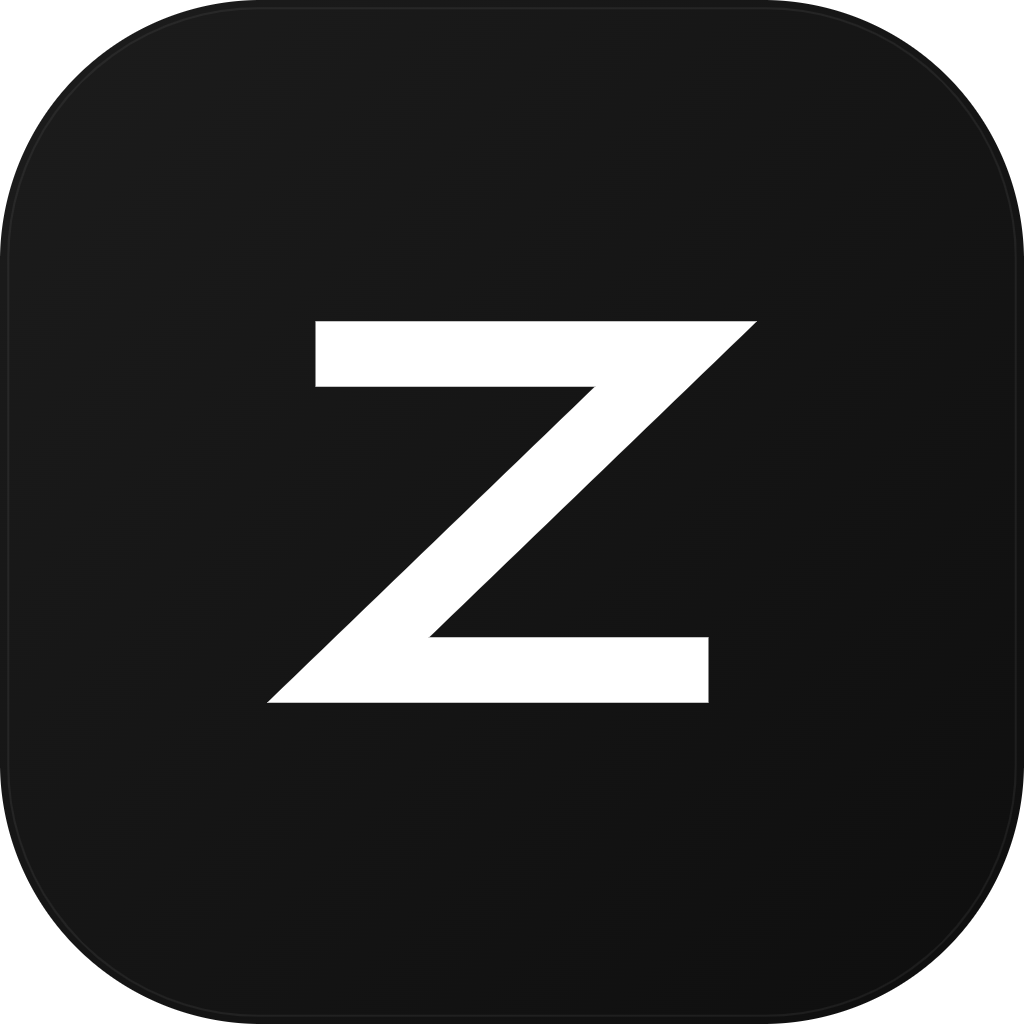
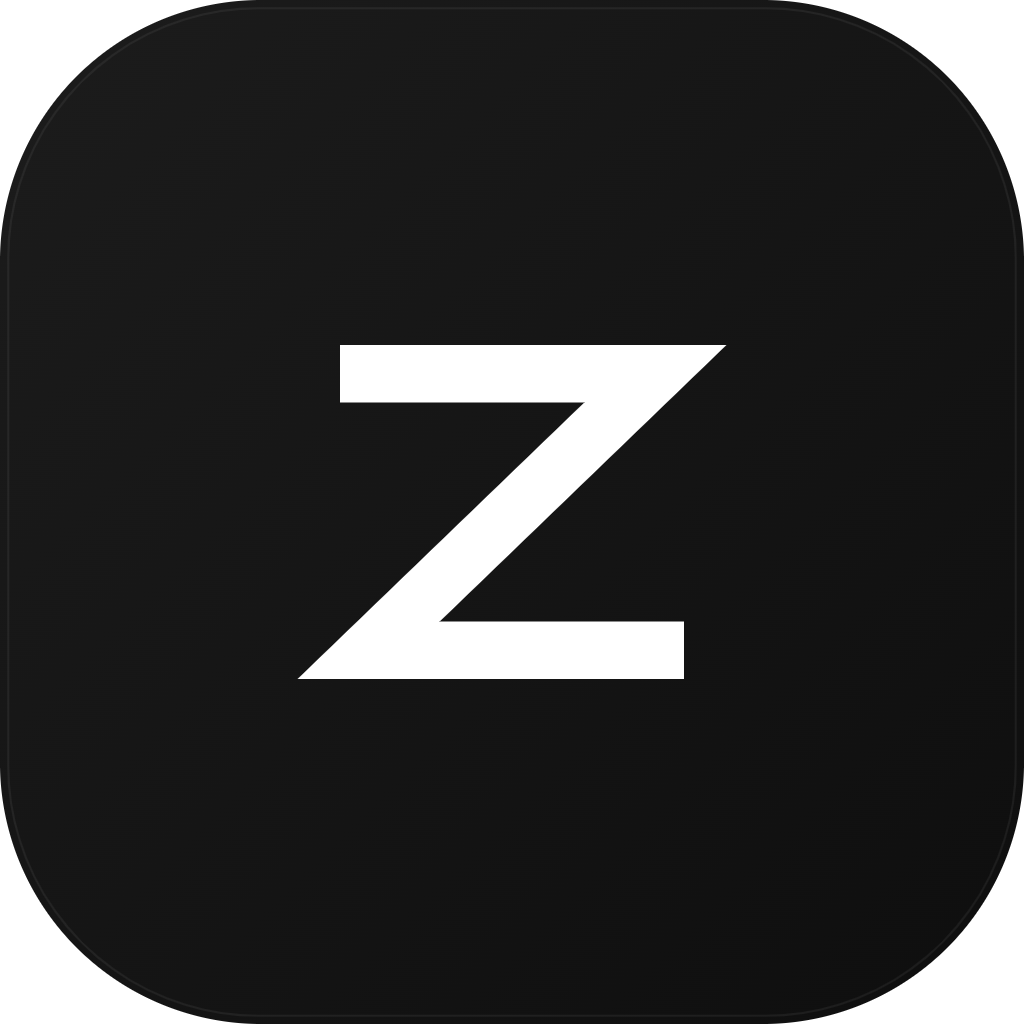
Save Android downloads directly and shrink the launcher mark

diff --git a/src/lib/utils.ts b/src/lib/utils.ts
@@ -1,4 +1,16 @@
-import { Capacitor } from '@capacitor/core';
+import { Capacitor, registerPlugin } from '@capacitor/core';
+
+interface NativeSaveOptions {
+  base64: string;
+  filename: string;
+  mime: string;
+}
+
+interface NativeSaverPlugin {
+  saveFile(options: NativeSaveOptions): Promise<{ uri: string; path: string }>;
+}
+
+const NativeSaver = registerPlugin<NativeSaverPlugin>('ImagZal');
 
 export function cn(...parts: Array<string | false | null | undefined>): string {
   return parts.filter(Boolean).join(' ');
@@ -53,23 +65,12 @@ function blobToBase64(blob: Blob): Promise<string> {
   });
 }
 
-/** On Android, write to the cache and open the system share/save sheet. */
-async function saveNativeFile(blob: Blob, filename: string): Promise<void> {
-  const [{ Filesystem, Directory }, { Share }] = await Promise.all([
-    import('@capacitor/filesystem'),
-    import('@capacitor/share'),
-  ]);
-  const safeName = filename.replace(/[\\/:*?"<>|]/g, '-');
-  const written = await Filesystem.writeFile({
-    path: safeName,
-    data: await blobToBase64(blob),
-    directory: Directory.Cache,
-    recursive: true,
-  });
-  await Share.share({
-    title: safeName,
-    files: [written.uri],
-    dialogTitle: 'Save or share',
+/** On Android, save directly into Downloads/ImagZal and show a native toast. */
+async function saveNativeFile(blob: Blob, filename: string): Promise<void> {  const safeName = filename.replace(/[\\/:*?"<>|]/g, '-');
+  await NativeSaver.saveFile({
+    base64: await blobToBase64(blob),
+    filename: safeName,
+    mime: blob.type || 'application/octet-stream',
   });
 }
 

diff --git a/android/app/src/main/java/com/bipinrizal/imagzal/ImagZalPlugin.java b/android/app/src/main/java/com/bipinrizal/imagzal/ImagZalPlugin.java
@@ -1,0 +1,128 @@
+package com.bipinrizal.imagzal;
+
+import android.Manifest;
+import android.content.ContentResolver;
+import android.content.ContentValues;
+import android.net.Uri;
+import android.os.Build;
+import android.os.Environment;
+import android.provider.MediaStore;
+import android.util.Base64;
+import android.widget.Toast;
+
+import com.getcapacitor.JSObject;
+import com.getcapacitor.PermissionState;
+import com.getcapacitor.Plugin;
+import com.getcapacitor.PluginCall;
+import com.getcapacitor.PluginMethod;
+import com.getcapacitor.annotation.CapacitorPlugin;
+import com.getcapacitor.annotation.Permission;
+import com.getcapacitor.annotation.PermissionCallback;
+
+import java.io.File;
+import java.io.FileOutputStream;
+import java.io.OutputStream;
+
+@CapacitorPlugin(
+    name = "ImagZal",
+    permissions = {
+        @Permission(
+            alias = "storage",
+            strings = { Manifest.permission.WRITE_EXTERNAL_STORAGE }
+        )
+    }
+)
+public class ImagZalPlugin extends Plugin {
+
+    @PluginMethod
+    public void saveFile(PluginCall call) {
+        if (Build.VERSION.SDK_INT < Build.VERSION_CODES.Q
+            && getPermissionState("storage") != PermissionState.GRANTED) {
+            requestPermissionForAlias("storage", call, "storagePermission");
+            return;
+        }
+
+        String data = call.getString("base64");
+        String filename = call.getString("filename");
+        String mime = call.getString("mime", "application/octet-stream");
+
+        if (data == null || filename == null) {
+            call.reject("Missing file data.");
+            return;
+        }
+
+        String safeName = filename.replaceAll("[\\\\/:*?\"<>|]", "-");
+        if (safeName.isEmpty()) safeName = "imagzal-file";
+        final String savedName = safeName;
+
+        try {
+            byte[] bytes = Base64.decode(data, Base64.DEFAULT);
+            Uri uri;
+
+            if (Build.VERSION.SDK_INT >= Build.VERSION_CODES.Q) {
+                ContentResolver resolver = getContext().getContentResolver();
+                ContentValues values = new ContentValues();
+                values.put(MediaStore.MediaColumns.DISPLAY_NAME, safeName);
+                values.put(MediaStore.MediaColumns.MIME_TYPE, mime);
+                values.put(
+                    MediaStore.MediaColumns.RELATIVE_PATH,
+                    Environment.DIRECTORY_DOWNLOADS + "/ImagZal"
+                );
+                values.put(MediaStore.MediaColumns.IS_PENDING, 1);
+
+                uri = resolver.insert(MediaStore.Downloads.EXTERNAL_CONTENT_URI, values);
+                if (uri == null) {
+                    throw new Exception("Could not create the file in Downloads.");
+                }
+
+                try (OutputStream stream = resolver.openOutputStream(uri)) {
+                    if (stream == null) {
+                        throw new Exception("Could not open the file for writing.");
+                    }
+                    stream.write(bytes);
+                }
+
+                values.clear();
+                values.put(MediaStore.MediaColumns.IS_PENDING, 0);
+                resolver.update(uri, values, null, null);
+            } else {
+                File folder = new File(
+                    Environment.getExternalStoragePublicDirectory(Environment.DIRECTORY_DOWNLOADS),
+                    "ImagZal"
+                );
+                if (!folder.exists() && !folder.mkdirs()) {
+                    throw new Exception("Could not create the Downloads/ImagZal folder.");
+                }
+                File file = new File(folder, safeName);
+                try (FileOutputStream stream = new FileOutputStream(file)) {
+                    stream.write(bytes);
+                }
+                uri = Uri.fromFile(file);
+            }
+
+            JSObject result = new JSObject();
+            result.put("uri", uri.toString());
+            result.put("path", "Downloads/ImagZal/" + safeName);
+            call.resolve(result);
+
+            getActivity().runOnUiThread(() ->
+                Toast.makeText(
+                    getContext(),
+                    "Saved to Downloads/ImagZal/" + savedName,
+                    Toast.LENGTH_LONG
+                ).show()
+            );
+        } catch (Exception error) {
+            call.reject("Could not save the file.", error);
+        }
+    }
+
+    @PermissionCallback
+    private void storagePermission(PluginCall call) {
+        if (getPermissionState("storage") == PermissionState.GRANTED) {
+            saveFile(call);
+        } else {
+            call.reject("Storage permission is required to save files.");
+        }
+    }
+}

diff --git a/android/app/src/main/java/com/bipinrizal/imagzal/MainActivity.java b/android/app/src/main/java/com/bipinrizal/imagzal/MainActivity.java
@@ -1,5 +1,13 @@
 package com.bipinrizal.imagzal;
 
+import android.os.Bundle;
+
 import com.getcapacitor.BridgeActivity;
 
-public class MainActivity extends BridgeActivity {}
+public class MainActivity extends BridgeActivity {
+    @Override
+    public void onCreate(Bundle savedInstanceState) {
+        registerPlugin(ImagZalPlugin.class);
+        super.onCreate(savedInstanceState);
+    }
+}

diff --git a/README.md b/README.md
@@ -57,7 +57,7 @@ cd android
 The APK is written to `android/app/build/outputs/apk/debug/app-debug.apk`.
 A local build needs JDK 21 and Android SDK 36.
 
-Inside the Android app, converted files open the system **share/save sheet** — pick Files, Drive, or any other app to keep them. The APK is debug-signed, so it installs by sideloading (allow installs from your file manager).
+Inside the Android app, converted files are saved directly to **Downloads/ImagZal** on the phone (with a confirmation toast), instead of opening a share sheet. The APK is debug-signed, so it installs by sideloading (allow installs from your file manager).
 
 The Android layout is intentionally different from the website: there is no web footer or About section. The author card, Portfolio/GitHub links, **Replay intro** and theme switch live in a slide-out menu opened from the top-right button.
 
